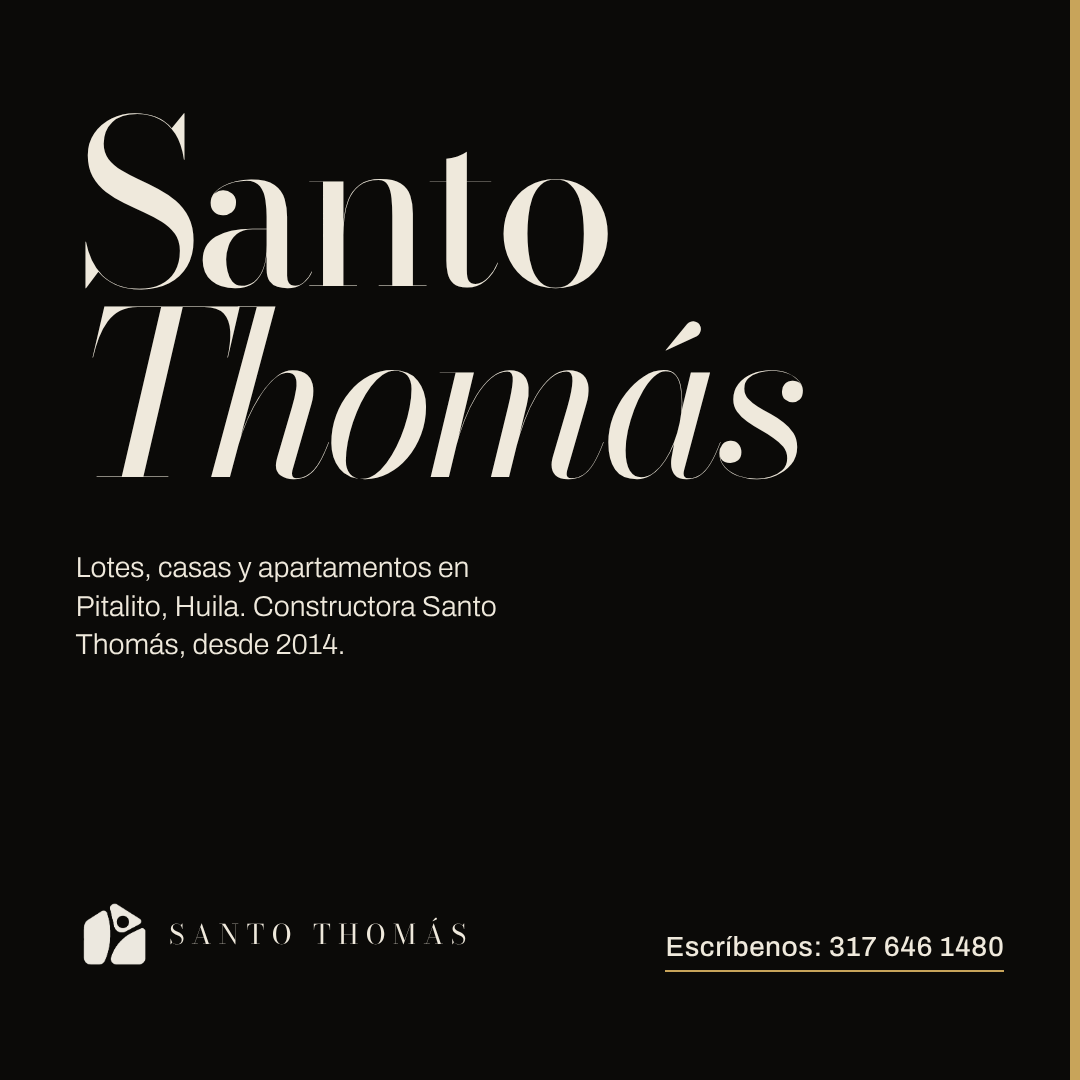
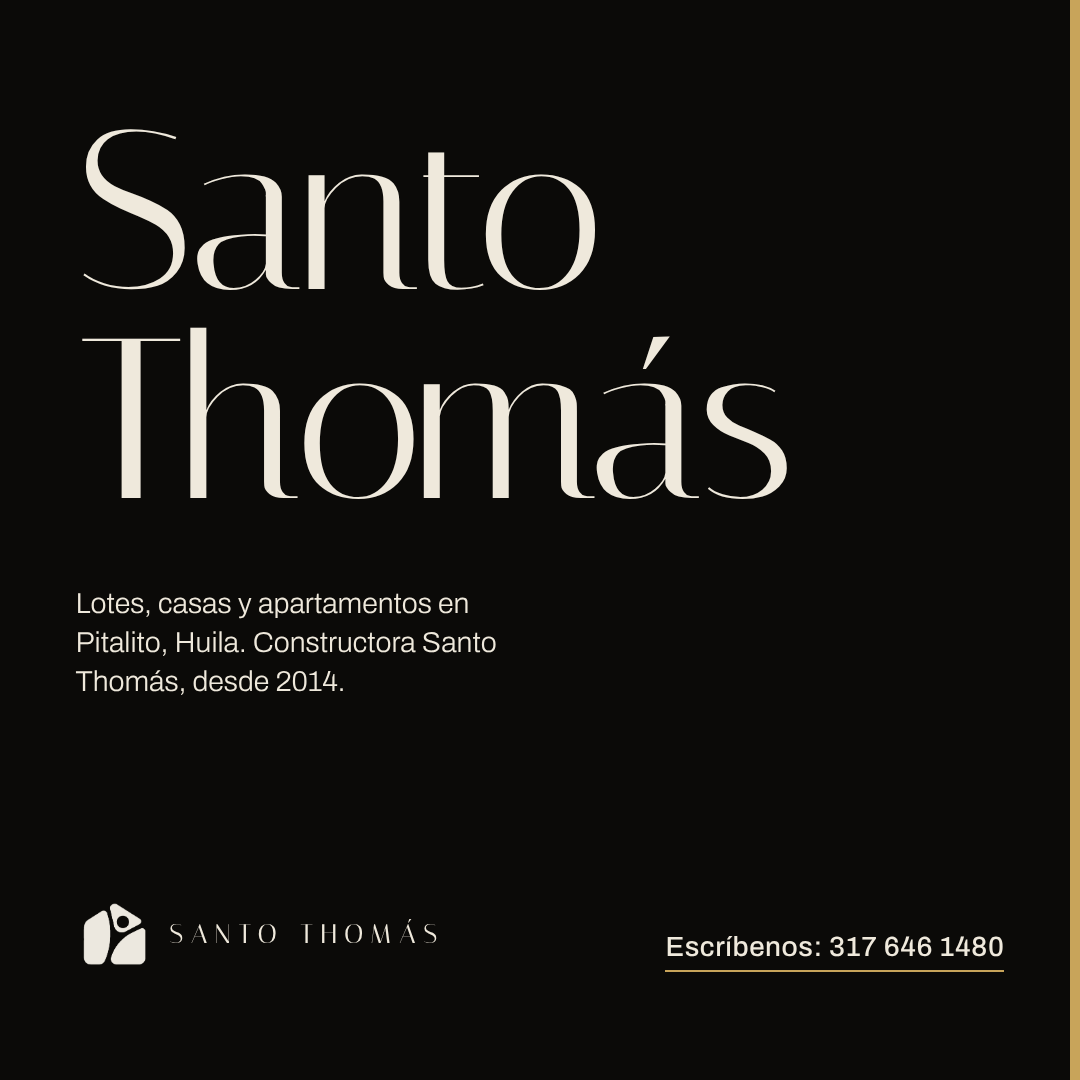
Santo Thomás page: history moved up, Italiana display type
Claude-Session: https://claude.ai/code/session_01EuNx7qHGaqCun31qjyEdxN

diff --git a/santo-thomas/index.html b/santo-thomas/index.html
@@ -17,7 +17,7 @@
 <link rel="apple-touch-icon" href="img/favicon.png">
 <link rel="preconnect" href="https://fonts.googleapis.com">
 <link rel="preconnect" href="https://fonts.gstatic.com" crossorigin>
-<link href="https://fonts.googleapis.com/css2?family=Bodoni+Moda:ital,opsz,wght@0,6..96,400..600;1,6..96,400..600&family=Archivo:wght@300..600&display=swap" rel="stylesheet">
+<link href="https://fonts.googleapis.com/css2?family=Italiana&family=Archivo:wght@300..600&display=swap" rel="stylesheet">
 <script type="application/ld+json">
 {
   "@context": "https://schema.org",
@@ -46,7 +46,7 @@
   --oro:#c8a45a; --bronce:#8c7446; --gris:#9a9383; --linea:rgba(239,233,220,.16);
   --m:clamp(20px,3.2vw,56px);
   --seccion:clamp(110px,16vw,250px);
-  --serif:'Bodoni Moda','Didot','Bodoni 72',Georgia,serif;
+  --serif:'Italiana','Optima','Candara',Georgia,serif;
   --salir:cubic-bezier(.16,.84,.24,1);
 }
 *,*::before,*::after{box-sizing:border-box}
@@ -58,15 +58,16 @@ img{display:block;max-width:100%;height:auto}
 a{color:inherit}
 h1,h2,h3,p,figure,ul,ol,dl,dd{margin:0}
 ul,ol{padding:0;list-style:none}
-h1,h2,h3{font-family:var(--serif);font-weight:400;letter-spacing:-.028em;line-height:.9}
+h1,h2,h3{font-family:var(--serif);font-weight:400;letter-spacing:-.012em;line-height:.94}
 h2{font-size:clamp(44px,7.4vw,124px)}
-em{font-style:italic}
+em{font-style:normal;color:var(--oro)}
+.claro em{color:#8a6a24}
 .wrap{padding-inline:var(--m)}
 .seccion{padding-block:var(--seccion)}
 /* Rótulo: la letra pequeña del sistema */
 .rot{font-size:12px;font-weight:500;letter-spacing:.24em;text-transform:uppercase;color:var(--gris);line-height:1.5}
 .rot b{font-weight:500;color:var(--oro)}
-.decl{font-family:var(--serif);font-size:clamp(26px,2.9vw,44px);line-height:1.14;letter-spacing:-.015em}
+.decl{font-family:var(--serif);font-size:clamp(27px,3vw,46px);line-height:1.14;letter-spacing:0}
 .nota{font-size:15px;line-height:1.5;color:var(--gris)}
 .filete{height:1px;background:var(--linea);border:0;margin:0}
 :focus-visible{outline:1px solid var(--oro);outline-offset:5px}
@@ -100,7 +101,7 @@ em{font-style:italic}
 
 /* Barra */
 .barra{position:absolute;top:0;left:0;right:0;z-index:5;display:flex;align-items:center;gap:var(--m);padding:28px var(--m)}
-.barra .marca{margin-right:auto;display:flex;align-items:center;gap:14px;text-decoration:none;font-family:var(--serif);font-size:17px;letter-spacing:.3em;text-transform:uppercase}
+.barra .marca{margin-right:auto;display:flex;align-items:center;gap:14px;text-decoration:none;font-family:var(--serif);font-size:19px;letter-spacing:.3em;text-transform:uppercase}
 .barra .marca img{width:30px;height:auto}
 .barra ul{display:flex;gap:clamp(18px,3vw,48px)}
 .barra nav a{text-decoration:none;font-size:12px;font-weight:500;letter-spacing:.22em;text-transform:uppercase;padding:12px 0;display:block;transition:color .25s}
@@ -109,8 +110,8 @@ em{font-style:italic}
 
 /* Portada: dos palabras enormes que pisan las fotos */
 .portada{position:relative;min-height:max(100svh,700px);display:grid;grid-template-columns:repeat(12,minmax(0,1fr));grid-template-rows:1fr auto;column-gap:var(--m);padding:120px var(--m) clamp(28px,5vh,56px)}
-.portada h1{grid-column:1/-1;grid-row:1;align-self:center;position:relative;z-index:2;font-size:clamp(76px,16.6vw,290px);line-height:.82;letter-spacing:-.045em;pointer-events:none;mix-blend-mode:difference}
-.portada h1 .l2{padding-left:16vw;font-style:italic}
+.portada h1{grid-column:1/-1;grid-row:1;align-self:center;position:relative;z-index:2;font-size:clamp(72px,15.4vw,270px);line-height:.9;letter-spacing:-.02em;pointer-events:none;mix-blend-mode:difference}
+.portada h1 .l2{padding-left:16vw}
 /* El isotipo vive en la sangría de la segunda línea; el vidrio lo revela al abrir */
 .portada .sello{grid-column:1/4;grid-row:1;align-self:center;position:relative;z-index:1;width:21vw;margin-left:-3.4vw;aspect-ratio:1;transform:translateY(7.6vw);cursor:pointer}
 .portada .sello img{position:absolute;inset:0;margin:auto;width:42%;height:auto}
@@ -129,8 +130,8 @@ em{font-style:italic}
 }
 
 /* Manifiesto: se enciende palabra por palabra al pasar */
-.manifiesto{padding-block:clamp(110px,18vw,280px);display:grid;gap:36px}
-.manifiesto p.texto{font-family:var(--serif);font-size:clamp(30px,4.5vw,76px);line-height:1.08;letter-spacing:-.022em;max-width:20ch;text-wrap:balance}
+.manifiesto{padding-block:clamp(110px,18vw,280px) clamp(90px,13vw,200px);display:grid;gap:36px}
+.manifiesto p.texto{font-family:var(--serif);font-size:clamp(30px,4.5vw,76px);line-height:1.1;letter-spacing:-.008em;max-width:20ch;text-wrap:balance}
 .manifiesto .texto span{opacity:.16;transition:opacity .5s linear}
 .manifiesto .texto span.on{opacity:1}
 @media(min-width:900px){.manifiesto{grid-template-columns:repeat(12,minmax(0,1fr));column-gap:var(--m)}.manifiesto .rot{grid-column:1/4;padding-top:.9em}.manifiesto p.texto{grid-column:4/13;max-width:19ch}}
@@ -140,7 +141,7 @@ em{font-style:italic}
 .laminas .cab{display:flex;justify-content:space-between;align-items:end;gap:24px;padding-bottom:28px}
 .lamina{display:grid;gap:28px;padding-block:44px}
 .lamina .foto{aspect-ratio:4/3}
-.lamina .num{font-family:var(--serif);font-size:clamp(90px,15vw,250px);line-height:.74;letter-spacing:-.05em;color:transparent;-webkit-text-stroke:1px var(--bronce)}
+.lamina .num{font-family:var(--serif);font-size:clamp(90px,15vw,250px);line-height:.8;letter-spacing:-.02em;color:var(--bronce)}
 .lamina .txt{display:grid;gap:24px;justify-items:start;align-content:end}
 .lamina h3{font-size:clamp(40px,5.2vw,88px)}
 .lamina .txt p:not(.decl){max-width:40ch}
@@ -176,8 +177,8 @@ em{font-style:italic}
 @media(min-width:900px){.obra .cab{grid-template-columns:repeat(12,minmax(0,1fr));column-gap:var(--m);align-items:end}.obra .cab h2{grid-column:1/8}.obra .cab p{grid-column:9/13}}
 .pasos{display:grid;gap:clamp(14px,2vw,32px)}
 .pasos li{display:grid;gap:16px}
-.pasos .n{font-family:var(--serif);font-size:15px;letter-spacing:.1em;color:var(--oro)}
-.pasos h3{font-size:clamp(26px,2.4vw,38px);letter-spacing:-.015em;line-height:1}
+.pasos .n{font-family:var(--serif);font-size:22px;letter-spacing:.1em;color:var(--oro)}
+.pasos h3{font-size:clamp(28px,2.6vw,40px);letter-spacing:0;line-height:1}
 @media(min-width:900px){.pasos{grid-template-columns:repeat(3,minmax(0,1fr))}.pasos li:nth-child(2){margin-top:9vw}.pasos li:nth-child(3){margin-top:3vw}}
 
 /* Buscador */
@@ -185,11 +186,11 @@ em{font-style:italic}
 @media(min-width:900px){.busca{grid-template-columns:minmax(0,5fr) minmax(0,7fr)}}
 .busca form{display:grid;gap:34px;justify-items:start}
 .opciones{display:grid;width:100%;border-top:1px solid var(--linea)}
-.opciones label{display:flex;align-items:baseline;justify-content:space-between;gap:18px;padding:18px 0;border-bottom:1px solid var(--linea);cursor:pointer;font-family:var(--serif);font-size:clamp(28px,3.1vw,48px);line-height:1;letter-spacing:-.02em;color:#6f695d;transition:color .3s,padding .5s var(--salir)}
+.opciones label{display:flex;align-items:baseline;justify-content:space-between;gap:18px;padding:18px 0;border-bottom:1px solid var(--linea);cursor:pointer;font-family:var(--serif);font-size:clamp(28px,3.1vw,48px);line-height:1;letter-spacing:0;color:#6f695d;transition:color .3s,padding .5s var(--salir)}
 .opciones label::after{content:"";width:8px;height:8px;border-radius:50%;background:var(--oro);opacity:0;transform:scale(.3);transition:opacity .3s,transform .5s var(--salir);flex:none;align-self:center}
 .opciones label:hover{color:var(--marfil)}
 .opciones input{position:absolute;opacity:0;pointer-events:none}
-.opciones label:has(input:checked){color:var(--marfil);padding-left:18px;font-style:italic}
+.opciones label:has(input:checked){color:var(--marfil);padding-left:18px}
 .opciones label:has(input:checked)::after{opacity:1;transform:none}
 .opciones label:has(input:focus-visible){outline:1px solid var(--oro);outline-offset:4px}
 .plano{position:relative;aspect-ratio:4/3}
@@ -205,13 +206,13 @@ em{font-style:italic}
 @media(min-width:900px){.empresa{grid-template-columns:repeat(12,minmax(0,1fr));column-gap:var(--m)}.empresa .txt{grid-column:1/8}.empresa .foto{grid-column:9/13;margin-top:10vw}}
 .cifras{display:grid;gap:28px;padding-top:clamp(56px,8vw,120px)}
 .cifras div{display:grid;gap:10px;padding-top:22px;border-top:1px solid rgba(11,10,8,.2)}
-.cifras b{font-family:var(--serif);font-weight:400;font-variation-settings:'opsz' 30;font-size:clamp(64px,9vw,150px);line-height:.8;letter-spacing:-.05em;font-variant-numeric:lining-nums}
+.cifras b{font-family:var(--serif);font-weight:400;font-size:clamp(64px,9vw,150px);line-height:.86;letter-spacing:-.01em;font-variant-numeric:lining-nums}
 @media(min-width:700px){.cifras{grid-template-columns:repeat(3,minmax(0,1fr));column-gap:var(--m)}}
-.preg{display:grid;gap:clamp(28px,4vw,64px);padding-top:var(--seccion)}
+.preg{display:grid;gap:clamp(28px,4vw,64px)}
 @media(min-width:900px){.preg{grid-template-columns:repeat(12,minmax(0,1fr));column-gap:var(--m)}.preg h2{grid-column:1/6}.preg .lista{grid-column:7/13}}
 .preg details{border-bottom:1px solid rgba(11,10,8,.2)}
 .preg details:first-child{border-top:1px solid rgba(11,10,8,.2)}
-.preg summary{cursor:pointer;list-style:none;padding:22px 0;font-family:var(--serif);font-size:clamp(24px,2.1vw,32px);line-height:1.1;letter-spacing:-.015em;display:flex;justify-content:space-between;gap:20px;transition:color .25s}
+.preg summary{cursor:pointer;list-style:none;padding:22px 0;font-family:var(--serif);font-size:clamp(26px,2.3vw,34px);line-height:1.1;letter-spacing:0;display:flex;justify-content:space-between;gap:20px;transition:color .25s}
 .preg summary::-webkit-details-marker{display:none}
 .preg summary::after{content:"+";font-family:Archivo,sans-serif;font-weight:300;font-size:26px;transition:transform .4s var(--salir)}
 .preg details[open] summary::after{transform:rotate(45deg)}
@@ -222,10 +223,10 @@ em{font-style:italic}
 .cierre{padding-top:var(--seccion);overflow:hidden}
 .cierre .datos{display:grid;gap:clamp(32px,5vw,80px);padding-bottom:clamp(64px,9vw,140px)}
 @media(min-width:900px){.cierre .datos{grid-template-columns:repeat(12,minmax(0,1fr));column-gap:var(--m);align-items:end}.cierre .datos > div{grid-column:1/8}.cierre address{grid-column:9/13}}
-.cierre .tel{font-family:var(--serif);font-variation-settings:'opsz' 36;font-size:clamp(48px,8vw,132px);font-variant-numeric:lining-nums;letter-spacing:-.04em;line-height:.9;text-decoration:none;display:inline-block;margin-block:22px 30px;transition:color .25s}
+.cierre .tel{font-family:var(--serif);font-size:clamp(48px,8vw,132px);letter-spacing:0;line-height:.9;text-decoration:none;display:inline-block;margin-block:22px 30px;transition:color .25s}
 .cierre .tel:hover{color:var(--oro)}
 .cierre address{font-style:normal;display:grid;gap:16px;justify-items:start}
-.cierre .firma{font-family:var(--serif);font-size:15.6vw;line-height:.78;letter-spacing:-.045em;white-space:nowrap;text-align:center;color:transparent;-webkit-text-stroke:1px var(--bronce);padding-bottom:.06em;user-select:none}
+.cierre .firma{font-family:var(--serif);font-size:15vw;line-height:.86;letter-spacing:-.015em;white-space:nowrap;text-align:center;color:var(--carbon-2);padding-bottom:.06em;user-select:none}
 .cierre .pie{padding:22px var(--m);border-top:1px solid var(--linea);display:flex;flex-wrap:wrap;gap:8px 24px;justify-content:space-between}
 
 .flota{position:fixed;left:0;right:0;bottom:0;z-index:14;display:none;justify-content:center;padding:14px var(--m) calc(14px + env(safe-area-inset-bottom));background:var(--negro);border-top:1px solid var(--linea);text-decoration:none;font-size:11px;font-weight:500;letter-spacing:.24em;text-transform:uppercase}
@@ -242,9 +243,9 @@ em{font-style:italic}
   </a>
   <nav aria-label="Principal">
     <ul>
+      <li><a href="#empresa">Historia</a></li>
       <li><a href="#proyectos">Proyectos</a></li>
       <li><a href="#obra">Obra</a></li>
-      <li><a href="#empresa">Empresa</a></li>
       <li><a href="#contacto">Contacto</a></li>
       <li class="wa"><a href="https://wa.me/573176461480?text=Hola%2C%20quiero%20informaci%C3%B3n%20sobre%20los%20proyectos%20de%20Constructora%20Santo%20Thom%C3%A1s.">WhatsApp</a></li>
     </ul>
@@ -271,6 +272,26 @@ em{font-style:italic}
 <section class="manifiesto wrap">
   <p class="rot">La constructora</p>
   <p class="texto" id="manifiesto">Antes de la casa está la tierra. Abrimos la vía, tendemos las redes y entregamos el lote listo para construir.</p>
+</section>
+
+<section class="claro seccion wrap" id="empresa">
+  <div class="empresa" data-grupo>
+    <div class="txt">
+      <p class="rot" data-sube>Nuestra historia</p>
+      <h2><span class="linea"><span>De Pitalito,</span></span><span class="linea" style="--i:1"><span><em>para Pitalito</em></span></span></h2>
+      <p class="decl" data-sube style="--i:2;max-width:24ch">Trabajamos en el Huila desde 2014 y somos sociedad por acciones simplificada desde 2019.</p>
+      <p data-sube style="--i:3;max-width:46ch">Atendemos en nuestra oficina del Centro Comercial Gran Plaza San Antonio. Allí te mostramos cada proyecto y coordinamos la visita al lote.</p>
+      <a class="accion" data-sube style="--i:4" href="https://www.google.com/maps/search/?api=1&query=Centro+Comercial+Gran+Plaza+San+Antonio+Pitalito+Huila">Cómo llegar a la oficina</a>
+    </div>
+    <figure class="foto" data-tapa data-par style="--i:2">
+      <img src="img/oficina.webp" srcset="img/oficina-800.webp 800w, img/oficina.webp 1280w" sizes="(min-width:900px) 32vw, 100vw" width="1280" height="960" loading="lazy" alt="Recepción de la oficina de Santo Thomás.">
+    </figure>
+  </div>
+  <div class="cifras" data-grupo>
+    <div data-sube><b>2014</b><span class="rot">Año en que empezamos</span></div>
+    <div data-sube style="--i:1"><b>2019</b><span class="rot">Constituidos como S.A.S.</span></div>
+    <div data-sube style="--i:2"><b>148</b><span class="rot">Local en Gran Plaza San Antonio</span></div>
+  </div>
 </section>
 
 <section class="laminas" id="proyectos" aria-labelledby="proy-t">
@@ -380,24 +401,7 @@ em{font-style:italic}
   </div>
 </section>
 
-<section class="claro seccion wrap" id="empresa">
-  <div class="empresa" data-grupo>
-    <div class="txt">
-      <p class="rot" data-sube>La empresa</p>
-      <h2><span class="linea"><span>De Pitalito,</span></span><span class="linea" style="--i:1"><span><em>para Pitalito</em></span></span></h2>
-      <p class="decl" data-sube style="--i:2;max-width:24ch">Trabajamos en el Huila desde 2014 y somos sociedad por acciones simplificada desde 2019.</p>
-      <p data-sube style="--i:3;max-width:46ch">Atendemos en nuestra oficina del Centro Comercial Gran Plaza San Antonio. Allí te mostramos cada proyecto y coordinamos la visita al lote.</p>
-      <a class="accion" data-sube style="--i:4" href="https://www.google.com/maps/search/?api=1&query=Centro+Comercial+Gran+Plaza+San+Antonio+Pitalito+Huila">Cómo llegar a la oficina</a>
-    </div>
-    <figure class="foto" data-tapa data-par style="--i:2">
-      <img src="img/oficina.webp" srcset="img/oficina-800.webp 800w, img/oficina.webp 1280w" sizes="(min-width:900px) 32vw, 100vw" width="1280" height="960" loading="lazy" alt="Recepción de la oficina de Santo Thomás.">
-    </figure>
-  </div>
-  <div class="cifras" data-grupo>
-    <div data-sube><b>2014</b><span class="rot">Año en que empezamos</span></div>
-    <div data-sube style="--i:1"><b>2019</b><span class="rot">Constituidos como S.A.S.</span></div>
-    <div data-sube style="--i:2"><b>148</b><span class="rot">Local en Gran Plaza San Antonio</span></div>
-  </div>
+<section class="claro seccion wrap">
   <div class="preg" data-grupo>
     <h2><span class="linea"><span>Preguntas</span></span></h2>
     <div class="lista" data-sube style="--i:1">

diff --git a/santo-thomas/marca/brandkit.html b/santo-thomas/marca/brandkit.html
@@ -3,7 +3,7 @@
 <head>
 <meta charset="UTF-8">
 <title>Sistema de marca · Constructora Santo Thomás</title>
-<link href="https://fonts.googleapis.com/css2?family=Bodoni+Moda:ital,opsz,wght@0,6..96,400..600;1,6..96,400..600&family=Archivo:wght@300..600&display=swap" rel="stylesheet">
+<link href="https://fonts.googleapis.com/css2?family=Italiana&family=Archivo:wght@300..600&display=swap" rel="stylesheet">
 <style>
 /* Tablero de marca 3×3, 2400×1800. Extiende la identidad existente: el logo no se rediseña. */
 :root{--cal:#efe9dc;--cal2:#e2dac8;--tinta:#0b0a08;--sup:#14120e;--sup2:#1c1914;--oro:#c8a45a;--gris:#9a9383}
@@ -14,7 +14,7 @@ body{background:#1b1b19;font-family:Archivo,sans-serif;color:var(--cal)}
 .et{position:absolute;left:28px;bottom:22px;font-size:17px;color:var(--gris);letter-spacing:.02em}
 .nu{position:absolute;right:28px;bottom:22px;font-size:17px;color:var(--gris);font-variant-numeric:tabular-nums}
 .claro{background:var(--cal);color:var(--tinta)}.claro .et,.claro .nu{color:#6a655b}
-.serif{font-family:'Bodoni Moda',serif;letter-spacing:-.03em}.serif em{font-style:italic}
+.serif{font-family:'Italiana',serif;letter-spacing:-.01em}.serif em{font-style:normal}
 .p1 img{width:52%}
 .p2{grid-template-columns:1.4fr 1fr;gap:0;padding:0;place-items:stretch}
 .p2 > div{height:100%;display:grid;place-items:center}
@@ -35,7 +35,7 @@ body{background:#1b1b19;font-family:Archivo,sans-serif;color:var(--cal)}
 .tj.f{background:var(--tinta);left:70px;top:64px;place-items:center;transform:rotate(-4deg)}
 .tj.f img{width:34%}
 .tj.d{background:var(--cal);color:var(--tinta);right:60px;bottom:96px;padding:30px 32px;align-content:space-between;transform:rotate(3deg)}
-.tj.d b{font-family:'Bodoni Moda',serif;font-weight:400;font-size:24px;letter-spacing:.24em;text-transform:uppercase}
+.tj.d b{font-family:'Italiana',serif;font-weight:400;font-size:24px;letter-spacing:.24em;text-transform:uppercase}
 .tj.d span{font-size:16px;line-height:1.5}
 .p8 img{position:absolute;inset:0;width:100%;height:100%;object-fit:cover}
 .p8::after{content:"";position:absolute;left:0;right:0;bottom:0;height:90px;background:rgba(11,10,8,.7)}
@@ -58,7 +58,7 @@ body{background:#1b1b19;font-family:Archivo,sans-serif;color:var(--cal)}
     <div style="background:#c8a45a;color:#0b0a08">Oro<span>#C8A45A</span></div>
     <span class="et" style="color:var(--gris)">Color</span><span class="nu" style="color:#0d0d0c">05</span>
   </div>
-  <div class="p p6 claro"><div><div class="aa serif">Aa</div><div class="f">Bodoni Moda · titulares</div><div class="abc serif">ABCDEFGHIJKLMNÑOPQRSTUVWXYZ</div><div class="txt">Archivo, para el texto corrido: lotes residenciales y comerciales en Pitalito, Huila.</div></div><span class="et">Tipografía</span><span class="nu">06</span></div>
+  <div class="p p6 claro"><div><div class="aa serif">Aa</div><div class="f">Italiana · titulares</div><div class="abc serif">ABCDEFGHIJKLMNÑOPQRSTUVWXYZ</div><div class="txt">Archivo, para el texto corrido: lotes residenciales y comerciales en Pitalito, Huila.</div></div><span class="et">Tipografía</span><span class="nu">06</span></div>
   <div class="p p7"><div class="tj f"><img src="../img/isotipo-solido.png" alt=""></div><div class="tj d"><b>Santo Thomás</b><span>317 646 1480<br>Cra. 15 No. 19A-01 Sur, local 148<br>C.C. Gran Plaza San Antonio · Pitalito</span></div><span class="et">Tarjeta</span><span class="nu">07</span></div>
   <div class="p p8"><img src="../img/render-torre.webp" alt=""><span class="et">Fotografía: un solo etalonaje cálido</span><span class="nu">08</span></div>
   <div class="p p9"><canvas id="c9"></canvas><span class="et">Patrón generativo «Loteo»</span><span class="nu">09</span></div>

diff --git a/santo-thomas/banners/banners.html b/santo-thomas/banners/banners.html
@@ -3,7 +3,7 @@
 <head>
 <meta charset="UTF-8">
 <title>Banners · Constructora Santo Thomás</title>
-<link href="https://fonts.googleapis.com/css2?family=Bodoni+Moda:ital,opsz,wght@0,6..96,400..600;1,6..96,400..600&family=Archivo:wght@300..600&display=swap" rel="stylesheet">
+<link href="https://fonts.googleapis.com/css2?family=Italiana&family=Archivo:wght@300..600&display=swap" rel="stylesheet">
 <style>
 /* Fuente de los banners. Uso: banners.html?estilo=foto|tipografia|loteo&w=1080&h=1080 */
 :root{--cal:#efe9dc;--tinta:#0b0a08;--campo:#1c1914;--campo-osc:#0b0a08;--oro:#c8a45a}
@@ -11,10 +11,10 @@
 body{background:#888;font-family:Archivo,sans-serif}
 #b{position:relative;overflow:hidden;container-type:size;color:var(--cal)}
 #b .zona{position:absolute;inset:10cqh 7cqw;display:flex;flex-direction:column;justify-content:space-between} /* zona segura */
-h1{font-family:'Bodoni Moda',serif;font-weight:400;letter-spacing:-.04em;line-height:.84;font-size:calc(var(--u)*21);max-width:7ch;text-wrap:balance}
+h1{font-family:'Italiana',serif;font-weight:400;letter-spacing:-.015em;line-height:.92;font-size:calc(var(--u)*21);max-width:7ch;text-wrap:balance}
 .sub{font-size:max(16px,calc(var(--u)*3.4));line-height:1.35;font-weight:400;max-width:30ch;margin-top:calc(var(--u)*7)}
 .fila{display:flex;align-items:flex-end;justify-content:space-between;gap:4cqw}
-.marca{display:flex;align-items:center;gap:calc(var(--u)*2);font-family:'Bodoni Moda',serif;font-weight:400;font-size:max(16px,calc(var(--u)*3.2));letter-spacing:.28em;text-transform:uppercase}
+.marca{display:flex;align-items:center;gap:calc(var(--u)*2);font-family:'Italiana',serif;font-weight:400;font-size:max(16px,calc(var(--u)*3.2));letter-spacing:.28em;text-transform:uppercase}
 .marca img{height:calc(var(--u)*9);width:auto}
 .cta{color:var(--cal);font-weight:500;letter-spacing:.02em;font-size:max(16px,calc(var(--u)*3.3));min-height:44px;display:flex;align-items:center;white-space:nowrap;background:linear-gradient(var(--oro),var(--oro)) left bottom/100% max(1px,calc(var(--u)*.25)) no-repeat;padding:0 0 calc(var(--u)*.6)}
 /* A · Foto */
@@ -35,7 +35,7 @@ h1{font-family:'Bodoni Moda',serif;font-weight:400;letter-spacing:-.04em;line-he
 .loteo h1,.loteo .sub{max-width:7ch}.loteo .sub{max-width:22ch}
 .ancho h1,.tipografia.ancho h1{max-width:16ch;font-size:calc(var(--u)*19)}
 .ancho .sub{margin-top:calc(var(--u)*5);max-width:44ch}
-h1 em{font-style:italic}
+h1 em{font-style:normal}
 .sub{font-weight:300}
 </style>
 </head>
